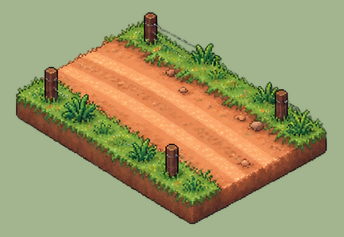
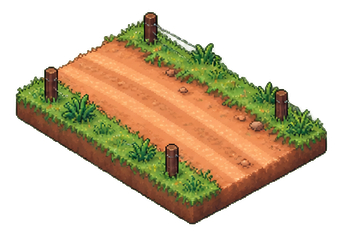
Integrate concept art with README section layouts
Position each concept illustration beside the related text and remove its green tile background so the art sits cleanly in GitHub dark theme.

Constraint: Concept illustrations must remain clearly separate from current product capabilities
Rejected: Keep green backdrops | They form visible boxes against the dark README theme
Confidence: high
Scope-risk: narrow
Directive: Preserve transparent PNGs and keep concept captions when rearranging the visual assets
Tested: git diff --check; verified README image references resolve and extracted art has transparent backgrounds
Not-tested: GitHub-hosted rendering

diff --git a/README.md b/README.md
@@ -27,9 +27,19 @@ The current workspace is a browser interface for setting a baseline, changing on
 
 ## 2. What RIOSE is
 
-RIOSE is an exploratory software prototype for livestock scenario comparison and research data exploration. It combines a deterministic JavaScript engine with a browser workspace, reproducible experiment records, selected Rust/WebAssembly components, and pages that display public observed datasets separately from simulated outputs.
-
-<p align="center"><img src="docs/assets/readme/04-concept-cow.png" alt="Concept illustration of a Nelore cow; this artwork is not rendered in the current workspace" width="280"><br><sub>Concept art from the project's visual exploration; not an in-app feature.</sub></p>
+<table>
+  <tbody>
+    <tr>
+      <td width="72%" valign="middle">
+        RIOSE is an exploratory software prototype for livestock scenario comparison and research data exploration. It combines a deterministic JavaScript engine with a browser workspace, reproducible experiment records, selected Rust/WebAssembly components, and pages that display public observed datasets separately from simulated outputs.
+      </td>
+      <td width="28%" align="right" valign="middle">
+        <img src="docs/assets/readme/04-concept-cow.png" alt="Transparent PNG concept illustration of a Nelore cow; not rendered in the current workspace" width="240"><br>
+        <sub>Concept art, not an in-app feature.</sub>
+      </td>
+    </tr>
+  </tbody>
+</table>
 
 The institutional home is [home.html](home.html). The quantitative workspace is [experiments.html](experiments.html). Older [product.html](product.html) and [simulator.html](simulator.html) URLs are compatibility redirects.
 
@@ -39,19 +49,46 @@ Livestock scenario tools can blur assumptions, observed records, and model outpu
 
 ## 4. The current approach
 
-The workspace gives both scenarios the same seed, starting state, herd size, horizon, and unchanged settings, then changes one selected factor. It presents the inputs, outputs, charts, daily results, and limitations together. The engine runs locally in the browser; a comparison can be retained in that browser's local history and exported.
-
-This makes experiments inspectable and repeatable. It does not make their outputs scientifically validated.
-
-<p align="center"><img src="docs/assets/readme/05-concept-road.png" alt="Isometric concept illustration of a rural road; not part of the current application interface" width="300"><br><sub>Rural road concept art, shown as a visual reference only.</sub></p>
+<table>
+  <tbody>
+    <tr>
+      <td width="36%" align="left" valign="middle">
+        <img src="docs/assets/readme/05-concept-road.png" alt="Transparent PNG isometric concept illustration of a rural road; not part of the current application interface" width="280"><br>
+        <sub>Road concept art.</sub>
+      </td>
+      <td width="64%" valign="middle">
+        The workspace gives both scenarios the same seed, starting state, herd size, horizon, and unchanged settings, then changes one selected factor. It presents the inputs, outputs, charts, daily results, and limitations together. The engine runs locally in the browser; a comparison can be retained in that browser's local history and exported.
+        <br><br>
+        This makes experiments inspectable and repeatable. It does not make their outputs scientifically validated.
+      </td>
+    </tr>
+  </tbody>
+</table>
 
 ## 5. Product walkthrough
 
-Start at [experiments.html](experiments.html). Choose the herd size, seed, and time horizon, set the reference scenario, select the intervention factor, and run the comparison. The results view includes summary metrics, a time-series chart, daily output rows, and expandable input and limitation details.
-
-The workspace also includes one-factor sensitivity exploration and a local run history. History stays in the browser unless the user exports it. The [observed-data pages](adult-data.html) provide a separate way to explore published measurements; those records are not silently used to calibrate or initialize the simulation.
-
-<p align="center"><img src="docs/assets/readme/08-concept-pickup.png" alt="Isometric concept illustration of a rural pickup truck; not rendered in the current workspace" width="300"><br><sub>Pickup illustration from the concept art set; it is not a current product feature.</sub></p>
+<table>
+  <tbody>
+    <tr>
+      <td width="70%" valign="top">
+        Start at [experiments.html](experiments.html). Choose the herd size, seed, and time horizon, set the reference scenario, select the intervention factor, and run the comparison. The results view includes summary metrics, a time-series chart, daily output rows, and expandable input and limitation details.
+      </td>
+      <td width="30%" align="right" valign="top">
+        <img src="docs/assets/readme/08-concept-pickup.png" alt="Transparent PNG isometric concept illustration of a rural pickup truck; not rendered in the current workspace" width="250"><br>
+        <sub>Pickup concept art.</sub>
+      </td>
+    </tr>
+    <tr>
+      <td width="30%" align="left" valign="bottom">
+        <img src="docs/assets/readme/05-concept-road.png" alt="Transparent PNG rural road concept illustration" width="250"><br>
+        <sub>Road concept art.</sub>
+      </td>
+      <td width="70%" valign="middle">
+        The workspace also includes one-factor sensitivity exploration and a local run history. History stays in the browser unless the user exports it. The [observed-data pages](adult-data.html) provide a separate way to explore published measurements; those records are not silently used to calibrate or initialize the simulation.
+      </td>
+    </tr>
+  </tbody>
+</table>
 
 ## 6. Visual identity and concept art
 
@@ -59,20 +96,13 @@ The current workspace uses an editorial, chart-focused interface: warm neutral s
 
 The attached [isometric asset sheet](docs/assets/readme/03-visual-concept-asset-sheet.png) is a **concept reference**. The current workspace does not render these illustrations: the farm-scene renderer, map, sprite atlas, 3D models, and visual scene editor were removed. The separated house and barn illustrations below show part of that visual exploration, not current product screens or shipped simulation features.
 
-<table>
-  <thead>
-    <tr>
-      <th>Farmhouse concept</th>
-      <th>Barn and equipment concept</th>
-    </tr>
-  </thead>
-  <tbody>
-    <tr>
-      <td><img src="docs/assets/readme/06-concept-farmhouse.png" alt="Isometric farmhouse concept illustration; not rendered in the current workspace" width="100%"></td>
-      <td><img src="docs/assets/readme/07-concept-barn.png" alt="Isometric barn, tractor, and hay concept illustration; not rendered in the current workspace" width="100%"></td>
-    </tr>
-  </tbody>
-</table>
+<p align="center">
+  <img src="docs/assets/readme/06-concept-farmhouse.png" alt="Transparent PNG farmhouse concept illustration; not rendered in the current workspace" width="280">
+  &nbsp;&nbsp;
+  <img src="docs/assets/readme/07-concept-barn.png" alt="Transparent PNG barn and tractor concept illustration; not rendered in the current workspace" width="280">
+  <br>
+  <sub>Farmhouse and tractor concepts, centered as a pair.</sub>
+</p>
 
 ## 7. AMD + ROCm validation
 
